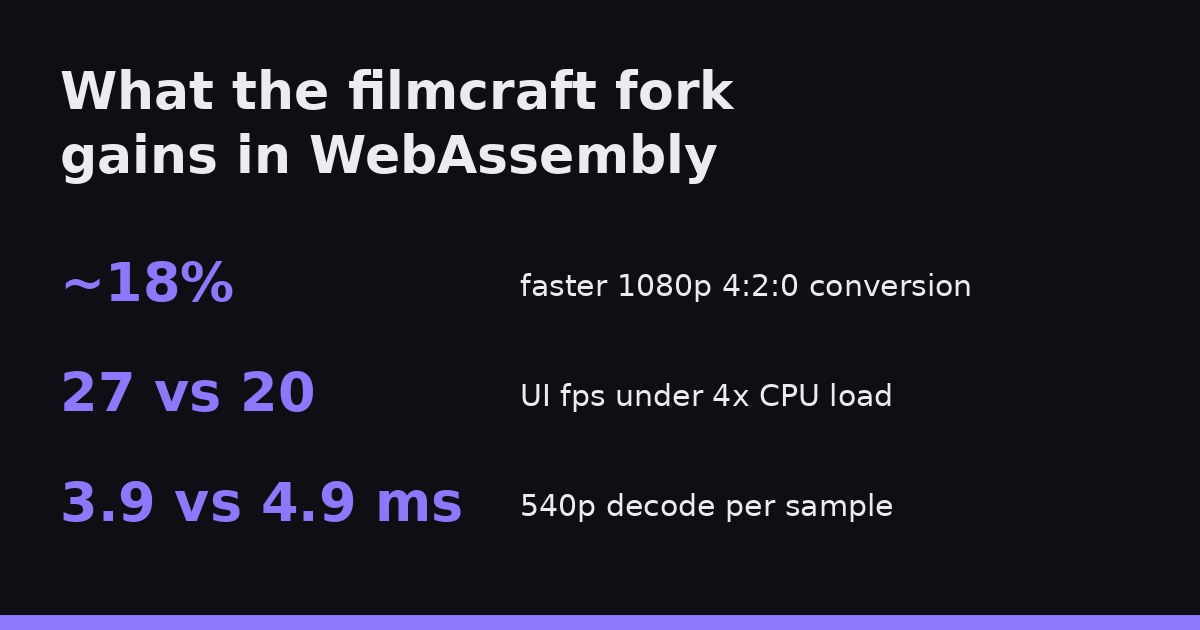
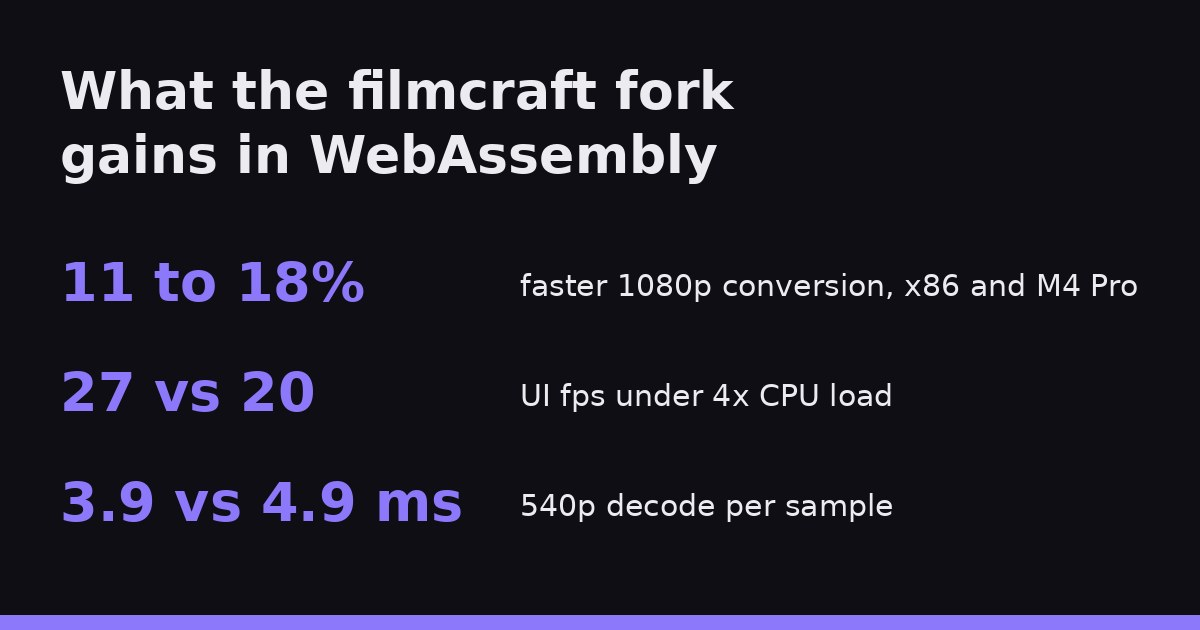
blog draft: add Apple M4 Pro conversion results, date 2026-10-14

Changed region(s): [[0.5858, 0.4222, 0.9558, 0.4825], [0.0308, 0.3921, 0.3083, 0.4825]]

diff --git a/blog/filmcraft-fork-webassembly-speedups/index.md b/blog/filmcraft-fork-webassembly-speedups/index.md
@@ -3,24 +3,26 @@ keyword: WebAssembly
 title: What our filmcraft fork gains in WebAssembly
 seoTitle: Faster filmcraft video in WebAssembly with SIMD and an adaptive budget
 description: How SIMD, a 4-pixel color kernel and an adaptive render budget make filmcraft's WebAssembly build convert frames faster and stay steadier under load.
-date: 2026-10-13
+date: 2026-10-14
 publish: true
 product: finalcap
 tags: [webassembly, simd, rust, benchmark]
 hero: card.jpg
-heroAlt: Card listing three results for the filmcraft fork in WebAssembly, about 18% faster 1080p conversion, 27 versus 20 UI fps under 4x CPU load, and 3.9 versus 4.9 ms decode per sample
-properNouns: [WebAssembly, SIMD, YUV, RGBA, UI]
+heroAlt: Card listing three results for the filmcraft fork in WebAssembly, 11 to 18% faster 1080p conversion on x86 and Apple M4 Pro, 27 versus 20 UI fps under 4x CPU load, and 3.9 versus 4.9 ms decode per sample
+properNouns: [WebAssembly, SIMD, YUV, RGBA, UI, Apple, Mac, M4, Pro]
 ---
 filmcraft is an open source video editor written in Rust that also runs in the browser as WebAssembly. Our fork adds a few performance changes to the WebAssembly build. This post sums up what they gain, where each gain comes from, and where the results are mixed.
 
-![Six bar charts comparing upstream filmcraft and the fork: 1080p 4:2:0 and 4:4:4 frame conversion time, 540p decode time per sample including the threaded build, UI frames per second, share of frames over 33 ms, and long task counts at 1x and 4x CPU](results.jpg)
+![Eight bar charts comparing upstream filmcraft and the fork: 1080p 4:2:0 and 4:4:4 frame conversion time on an x86 virtual machine and on an Apple M4 Pro, 540p decode time per sample including the threaded build, UI frames per second, share of frames over 33 ms, and long task counts at 1x and 4x CPU](results.jpg)
 
 ## The results in short
 
 | test | upstream | fork |
 | --- | --- | --- |
-| 1080p 4:2:0 frame to RGBA, ms | 72.3 | 59.2 (about 18% faster) |
-| 1080p 4:4:4 frame to RGBA, ms | 74.2 | 62.5 (about 16% faster) |
+| 1080p 4:2:0 frame to RGBA, x86 VM, ms | 72.3 | 59.2 (about 18% faster) |
+| 1080p 4:4:4 frame to RGBA, x86 VM, ms | 74.2 | 62.5 (about 16% faster) |
+| 1080p 4:2:0 frame to RGBA, Apple M4 Pro, ms | 13.71 | 12.25 (about 11% faster) |
+| 1080p 4:4:4 frame to RGBA, Apple M4 Pro, ms | 13.75 | 12.05 (about 12% faster) |
 | 540p playback, frames shown | about 900 of 900 | about 900 of 900 |
 | 540p decode per sample, ms | 4.9 | 3.9 |
 | 1080p UI fps at 4x CPU throttle | 19.7 | 27.4 |
@@ -35,9 +37,11 @@ Two changes speed up turning a decoded YUV frame into RGBA pixels for display.
 - **WebAssembly SIMD.** The fork turns on `simd128` for web builds, so the browser can work on several values in one instruction.
 - **A 4-pixel kernel.** The fork adds a version of the YUV to RGBA row conversion that handles 4 pixels per step with `f32x4` vectors from the `wide` crate. It is compiled only for WebAssembly and for tests.
 
-The kernel does most of the work. Upstream built with SIMD on takes 70.8 ms for a 1080p 4:2:0 frame, so SIMD alone saves little. The kernel brings it to 59.2 ms. For 4:4:4 the steps are 74.2, 73.4 and 62.5 ms. Each figure is the median of 7 runs.
+Most of the gain comes from the kernel. On the x86 virtual machine, turning on SIMD alone helped upstream a little: a 1080p 4:2:0 frame went from 72.3 to 70.8 ms, and 4:4:4 from 74.2 to 73.4 ms. The kernel then brought them to 59.2 and 62.5 ms. Each figure is the median of 7 runs.
 
-The output is bit-identical: a checksum of every pixel matches across all builds. The native build does not use this code, and its times did not change (about 4.4 to 4.6 ms per frame in both).
+On an Apple M4 Pro Mac, SIMD alone gave upstream nothing: 13.71 ms as shipped and 13.77 ms with SIMD on for 4:2:0, and 13.75 and 13.80 ms for 4:4:4. The fork took 12.25 and 12.05 ms, about 11% and 12% faster. Each figure there is the median of 9 runs of fork `53d0def` against upstream `cee1feb`, from Yisheng's own run on the Mac. So the gain is about 11 to 12% on Apple silicon and about 16 to 18% on the x86 virtual machine.
+
+The output is bit-identical: a checksum of every pixel matches across all builds on both machines. The native build does not use this code, and its times did not change (about 4.4 to 4.6 ms per frame on the virtual machine and about 0.55 ms on the Mac, for both builds).
 
 ## Playback and decode
 
@@ -58,7 +62,7 @@ The threaded WebAssembly build is now available at [grepawk.com/filmcraft](https
 ## Limits of these numbers
 
 - The browser tests used headless Chromium with software rendering and no GPU. Real browsers on real hardware will differ, decoding most of all.
-- Everything ran on a shared 8 vCPU virtual machine, with 3 runs per browser test and 7 per conversion test. The spread between runs is visible in the raw data.
+- Apart from the Mac conversion test, everything ran on a shared 8 vCPU virtual machine, with 3 runs per browser test and 7 per conversion test. The spread between runs is visible in the raw data.
 - 120 Hz displays, bundle size and startup time were not tested.
 
 The method and raw numbers are in the fork's [conversion notes](https://github.com/yishengjiang99/filmcraft/blob/main/docs/benchmarks/fork-vs-upstream.md), [jank notes](https://github.com/yishengjiang99/filmcraft/blob/main/docs/benchmarks/jank.md) and [playback notes](https://github.com/yishengjiang99/filmcraft/blob/main/docs/benchmarks/playback.md). For more on video in the browser, see [Making FFmpeg in the browser use every core](https://grepawk.com/blog/finalcap-ffmpeg-wasm-threads), the engine behind [FinalCap](https://grepawk.com/).
